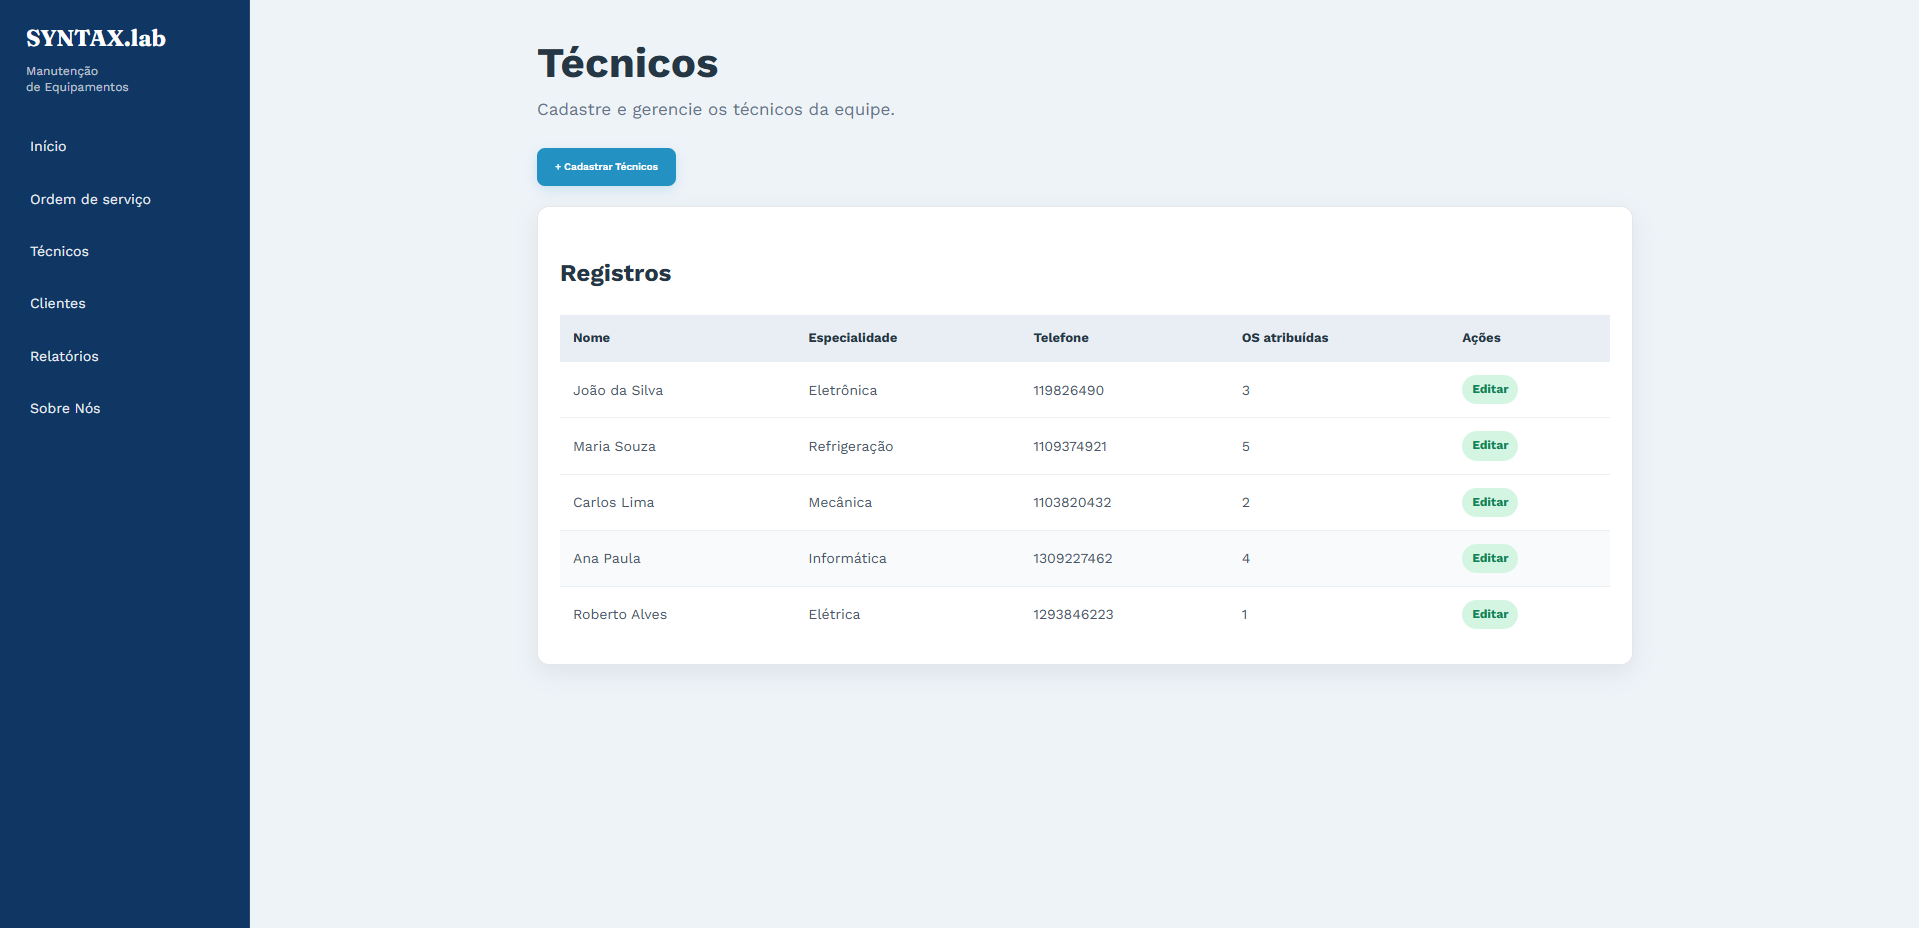
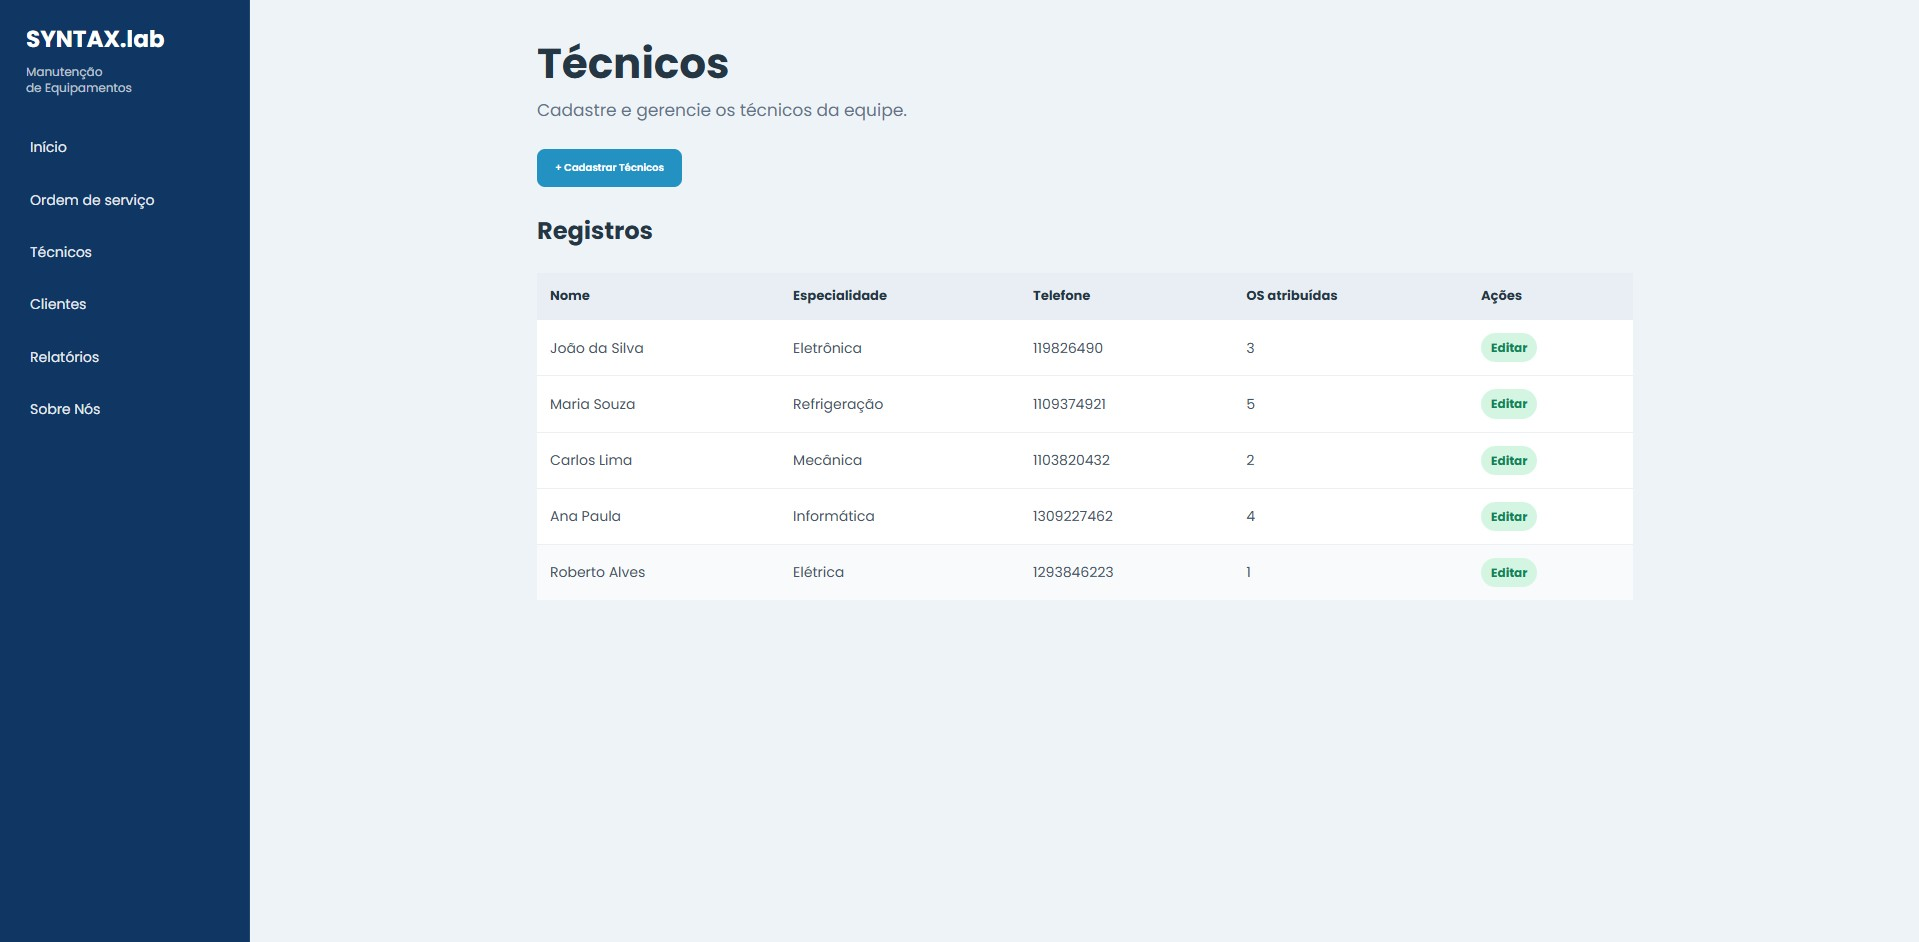
projeto final

diff --git a/backend/ordem.html b/backend/ordem.html
@@ -147,11 +147,6 @@
     </section>
 
 
-   
-        <a href="editar.html" class="botao-menu">Editar OS</a>
-        <a href="detalhes.html" class="botao-menu">Detalhes da OS</a>
-        <a href="#topo" class="botao-menu">Voltar</a>
-
     </section>
 
 </main>
